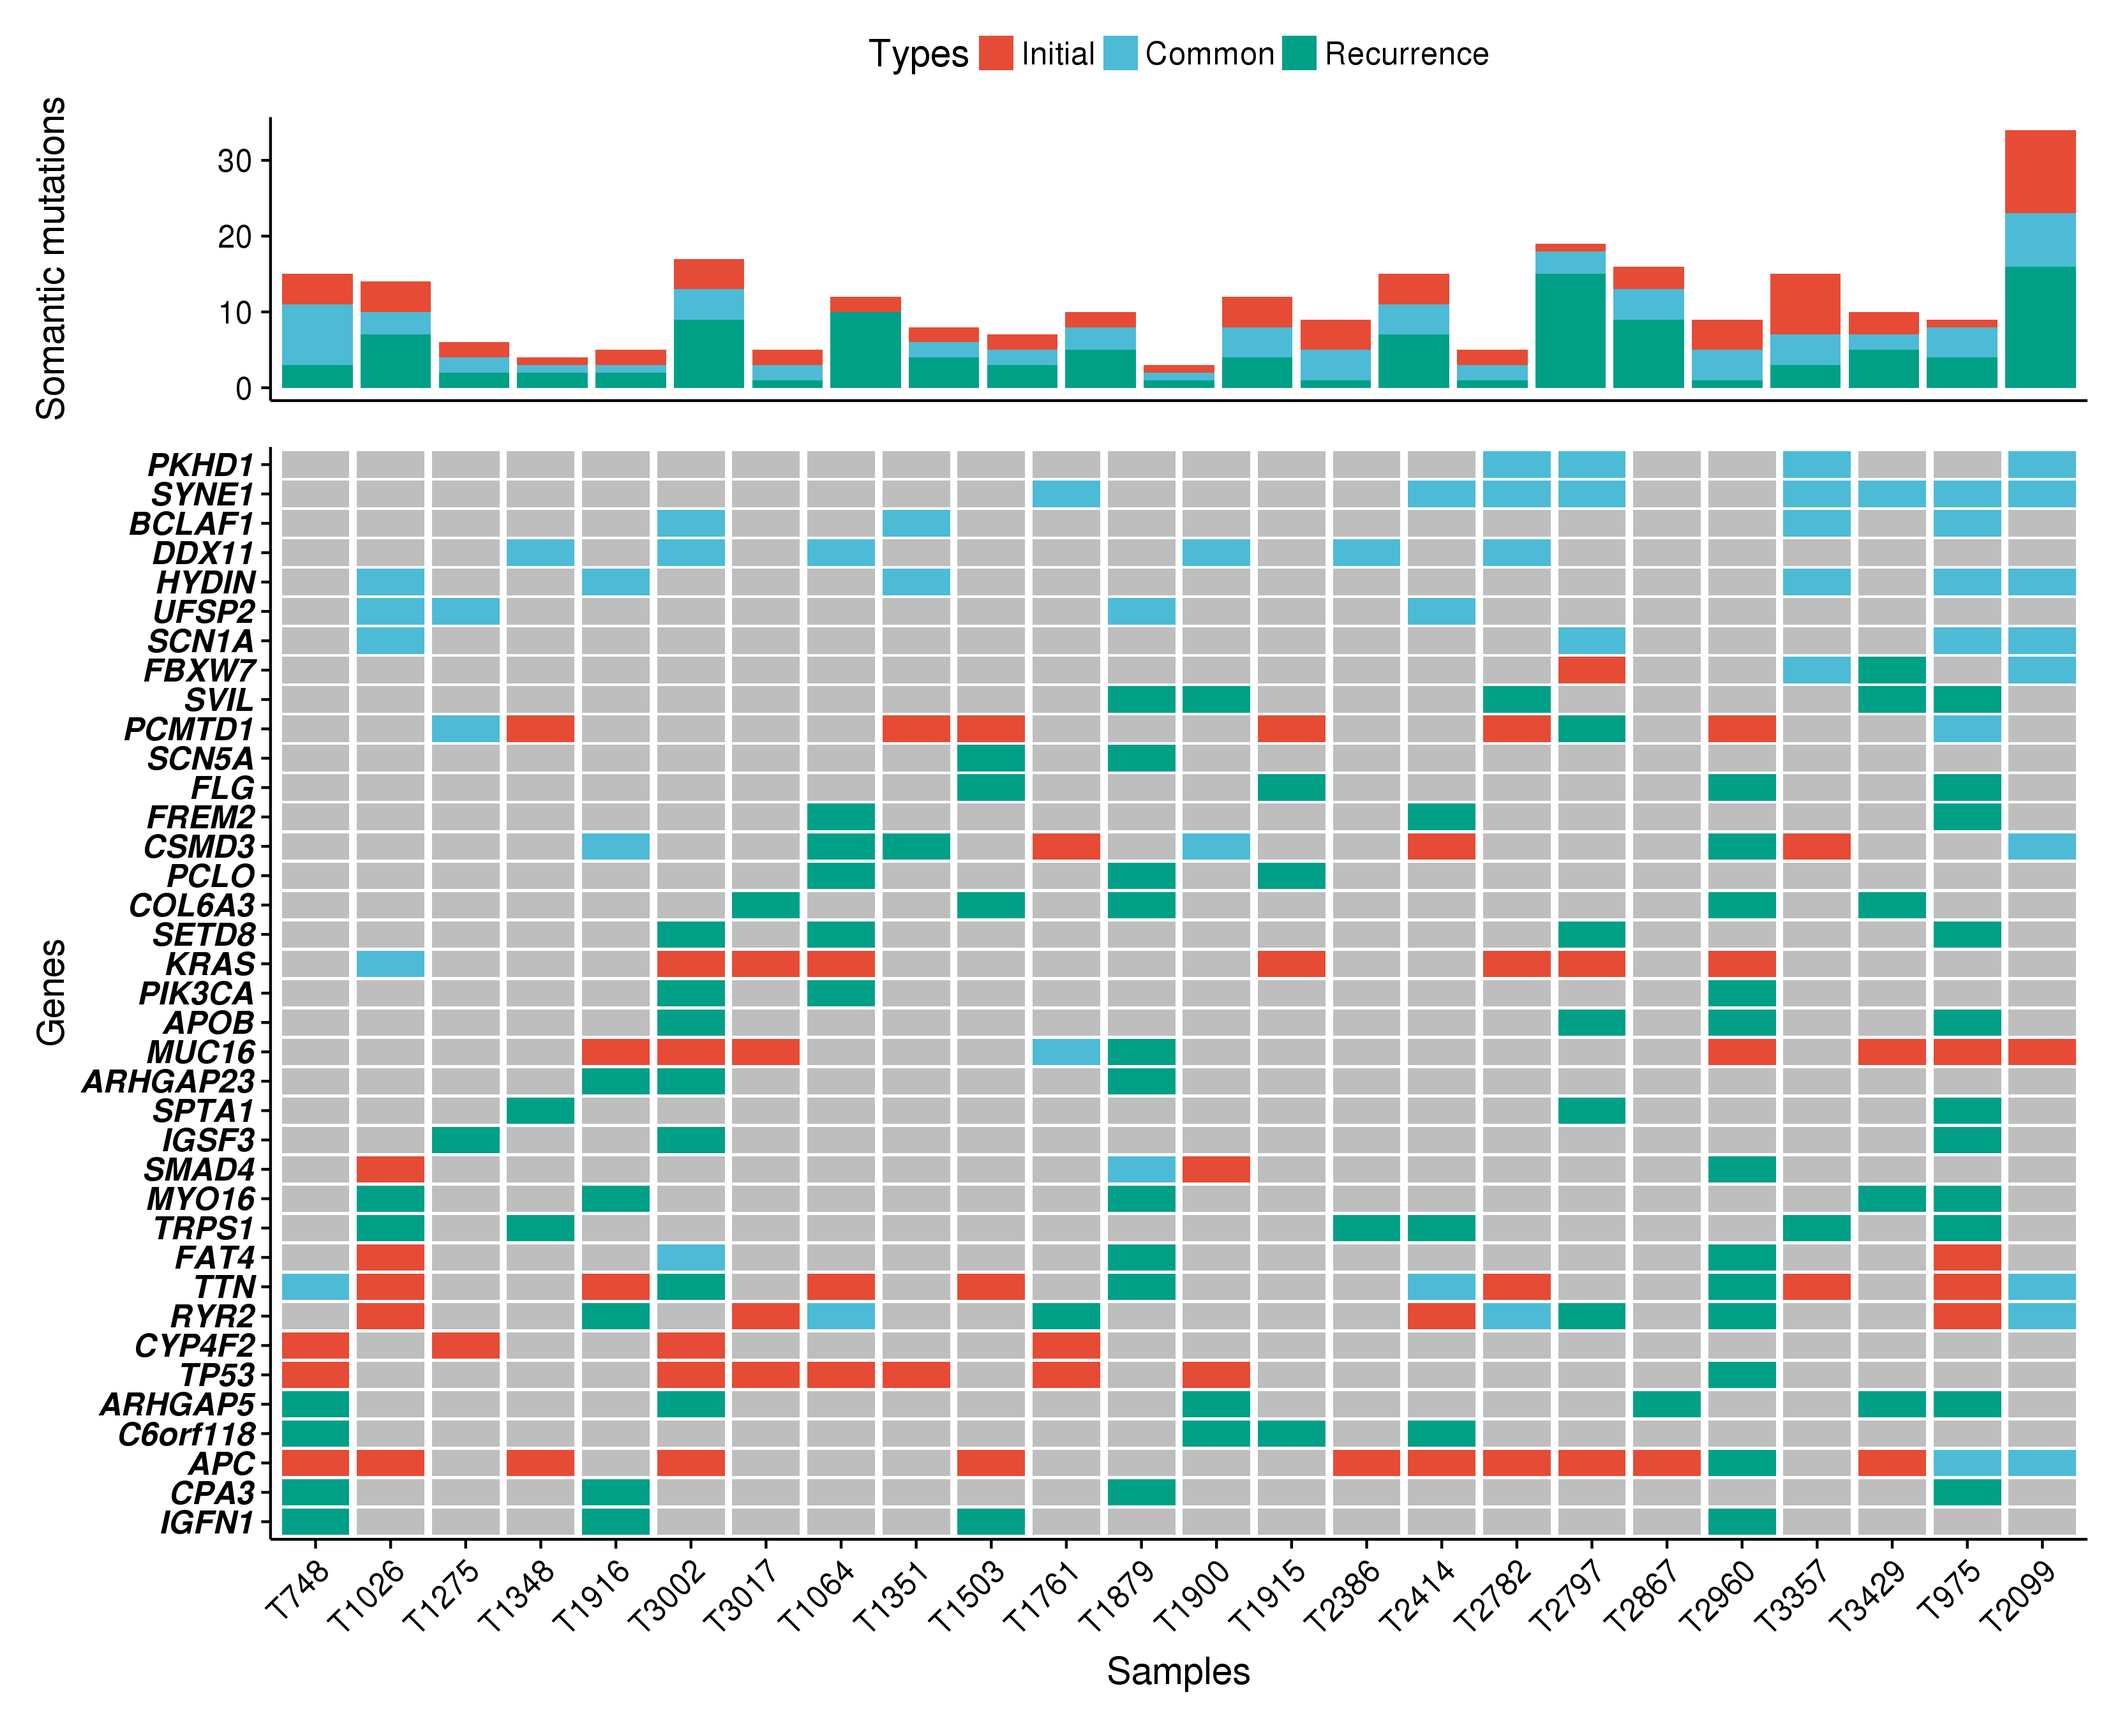
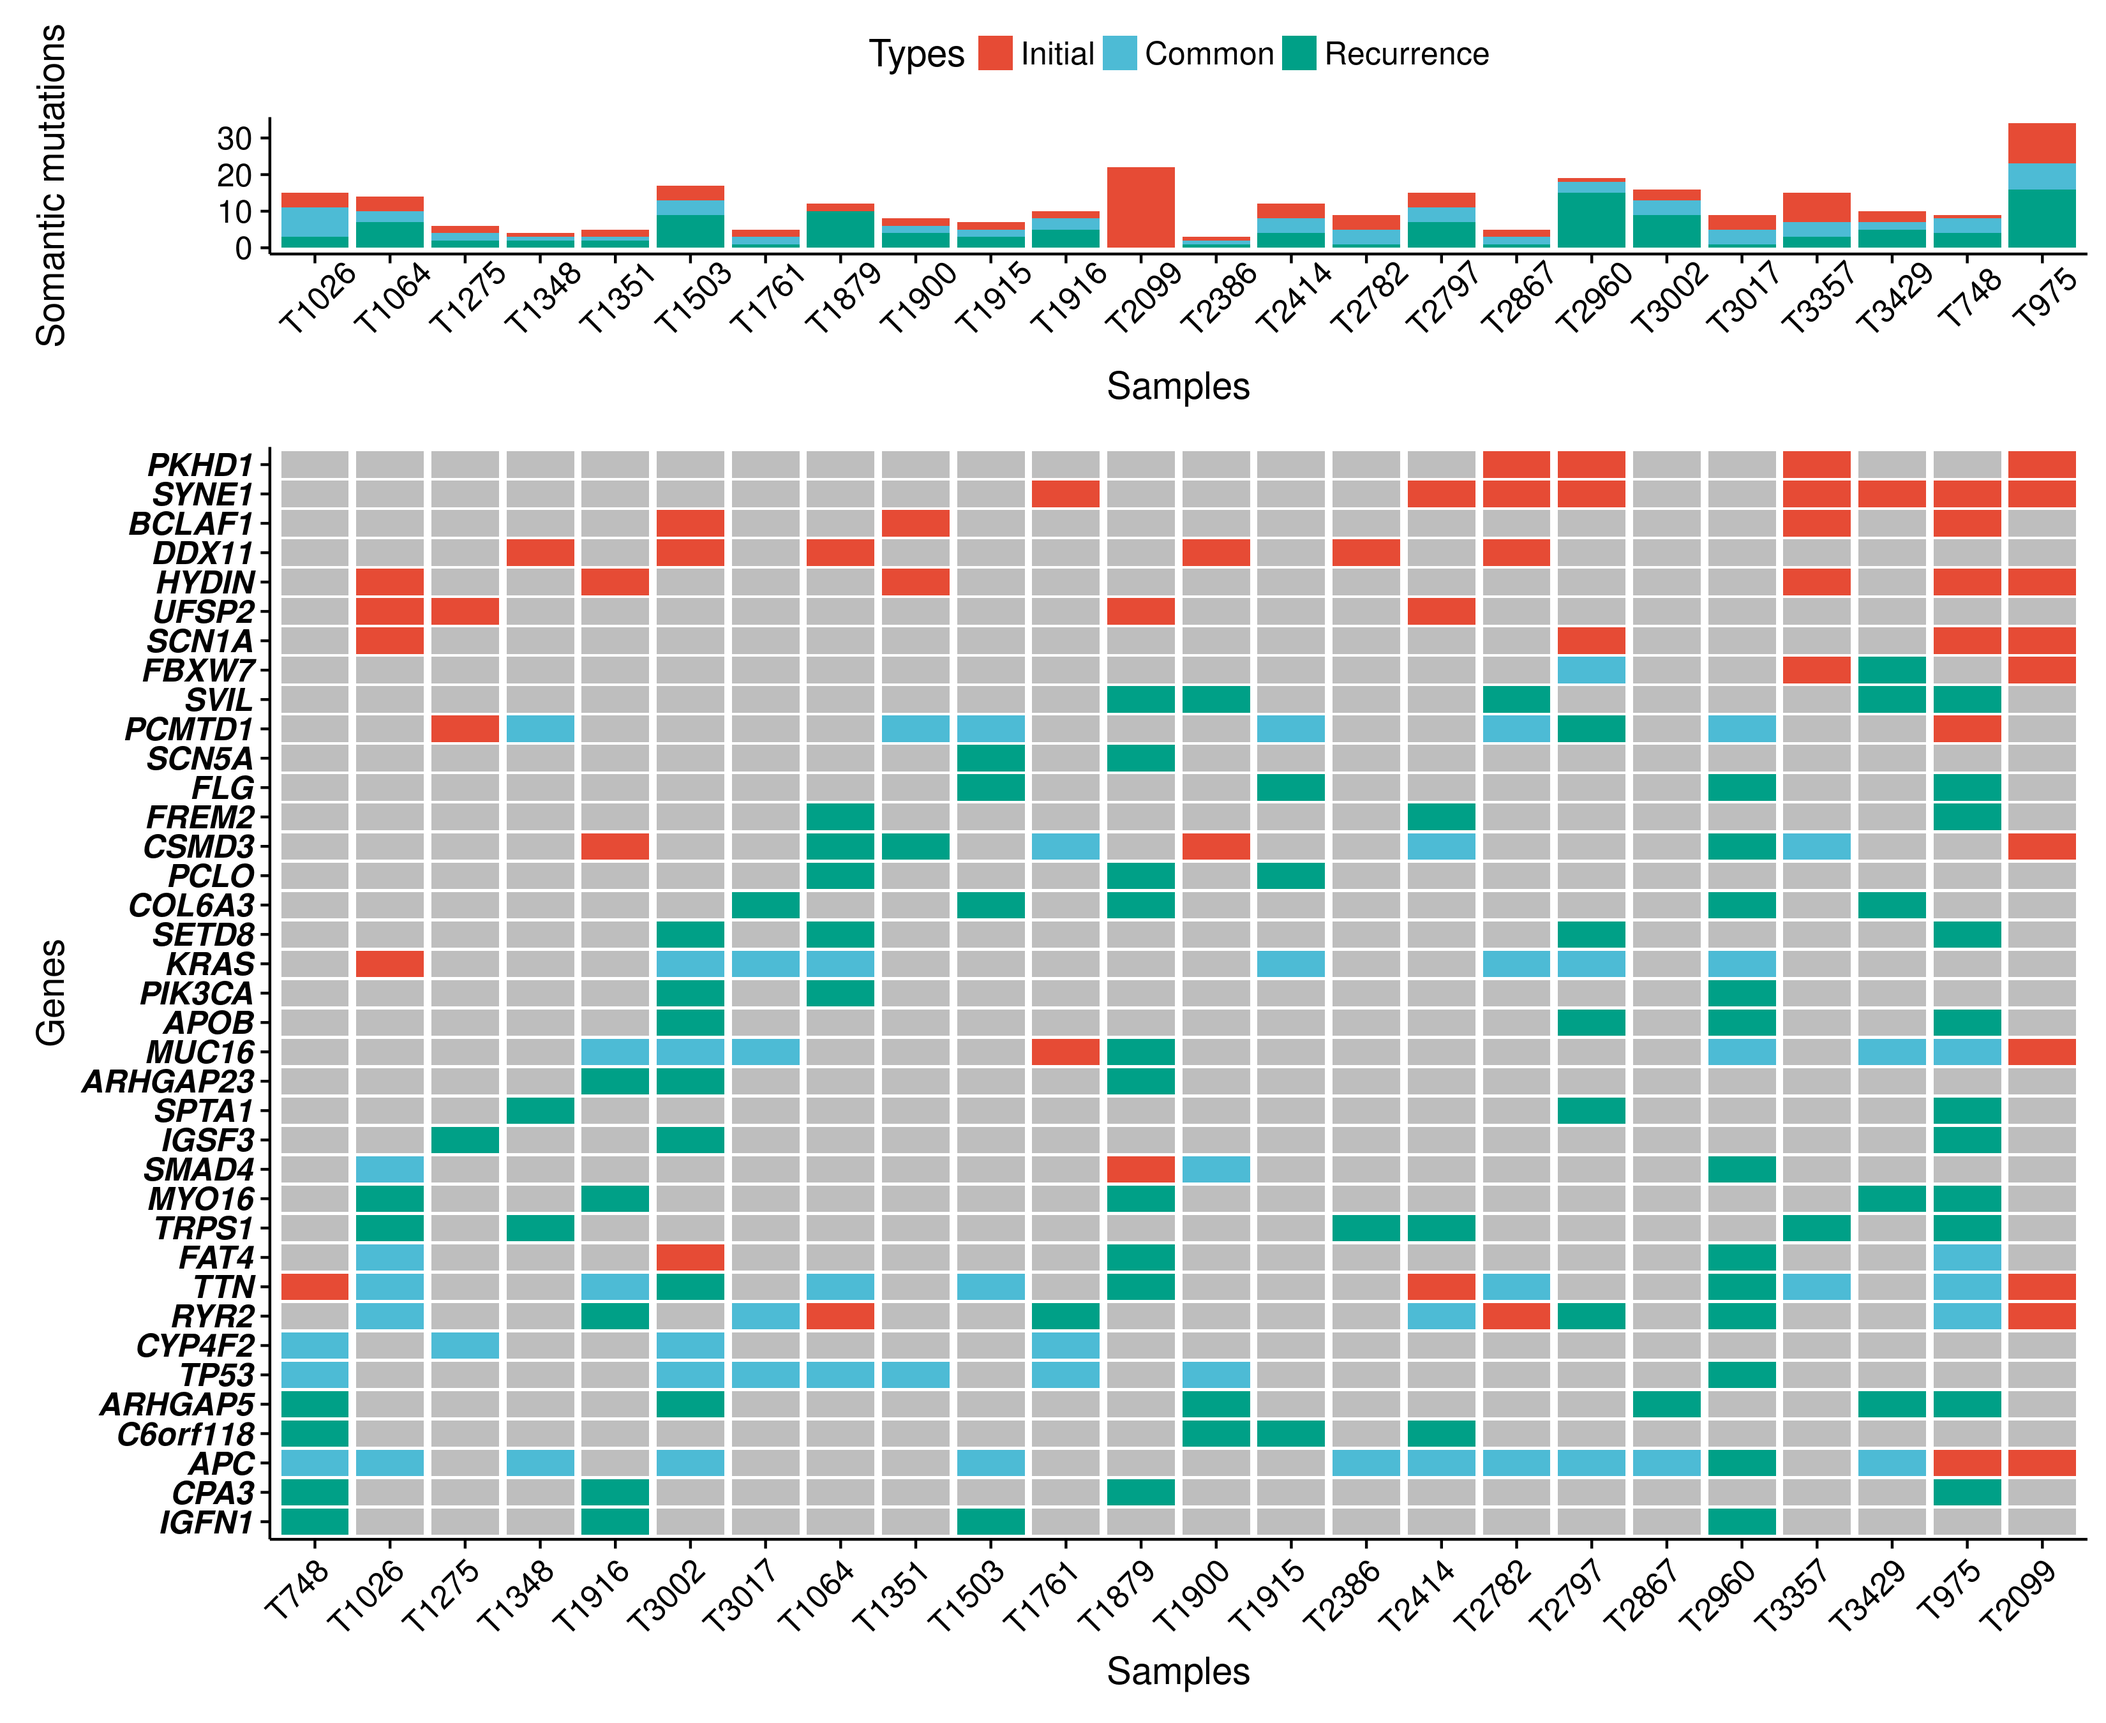
fix oncoprint gene and sample order

diff --git a/README.md b/README.md
@@ -35,4 +35,4 @@
 
 Fork this repo, then add/modify contents according to the [structure](#project-structure).
 
-For scripts with data, you should create a new folder then place them in. For single scripts, just live it alone.
+For scripts with data, you should create a **new folder** then place them in. For single scripts, just live it alone.
